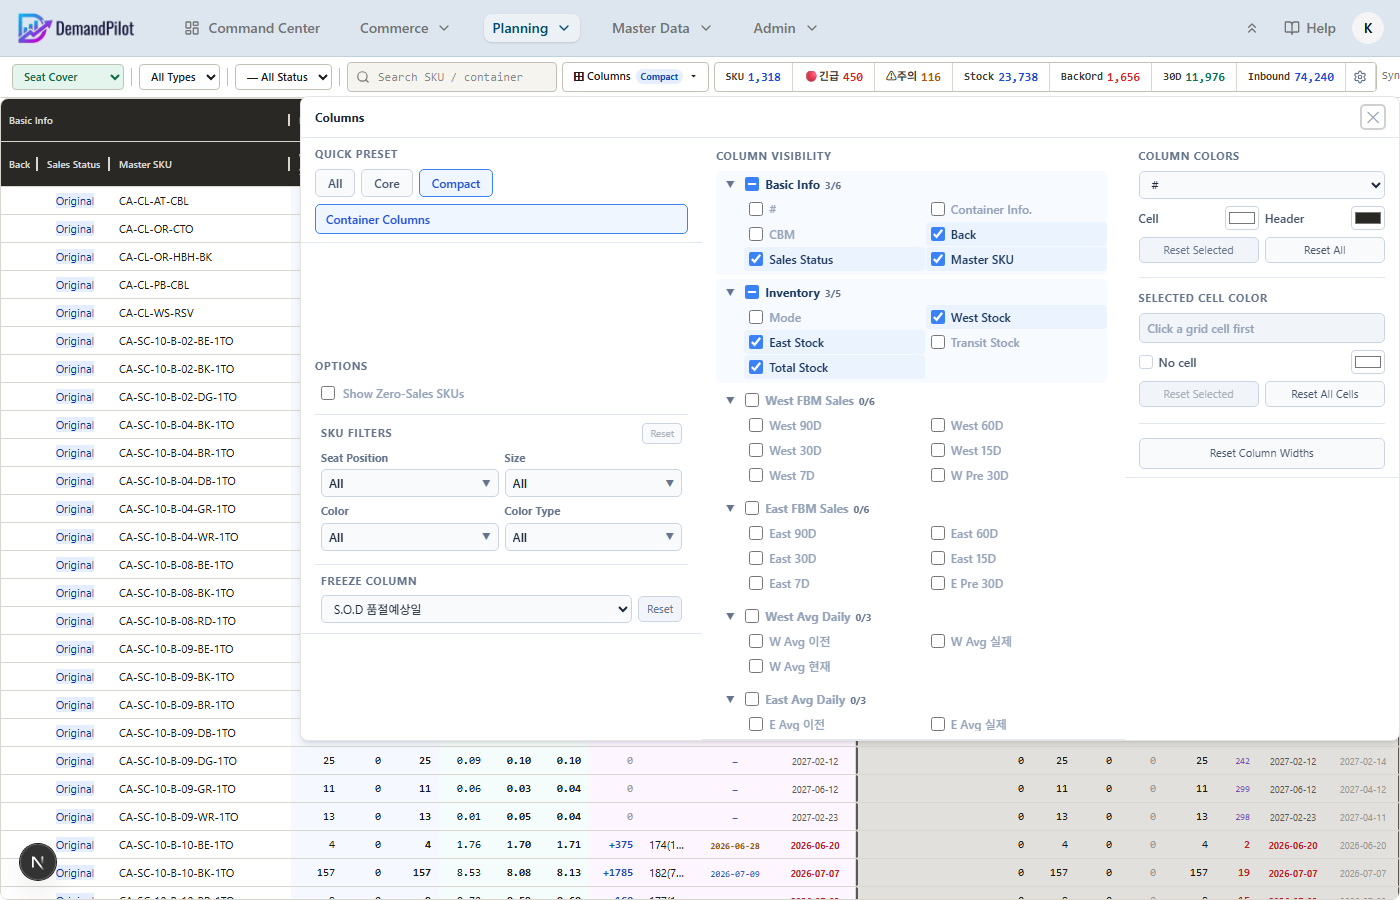
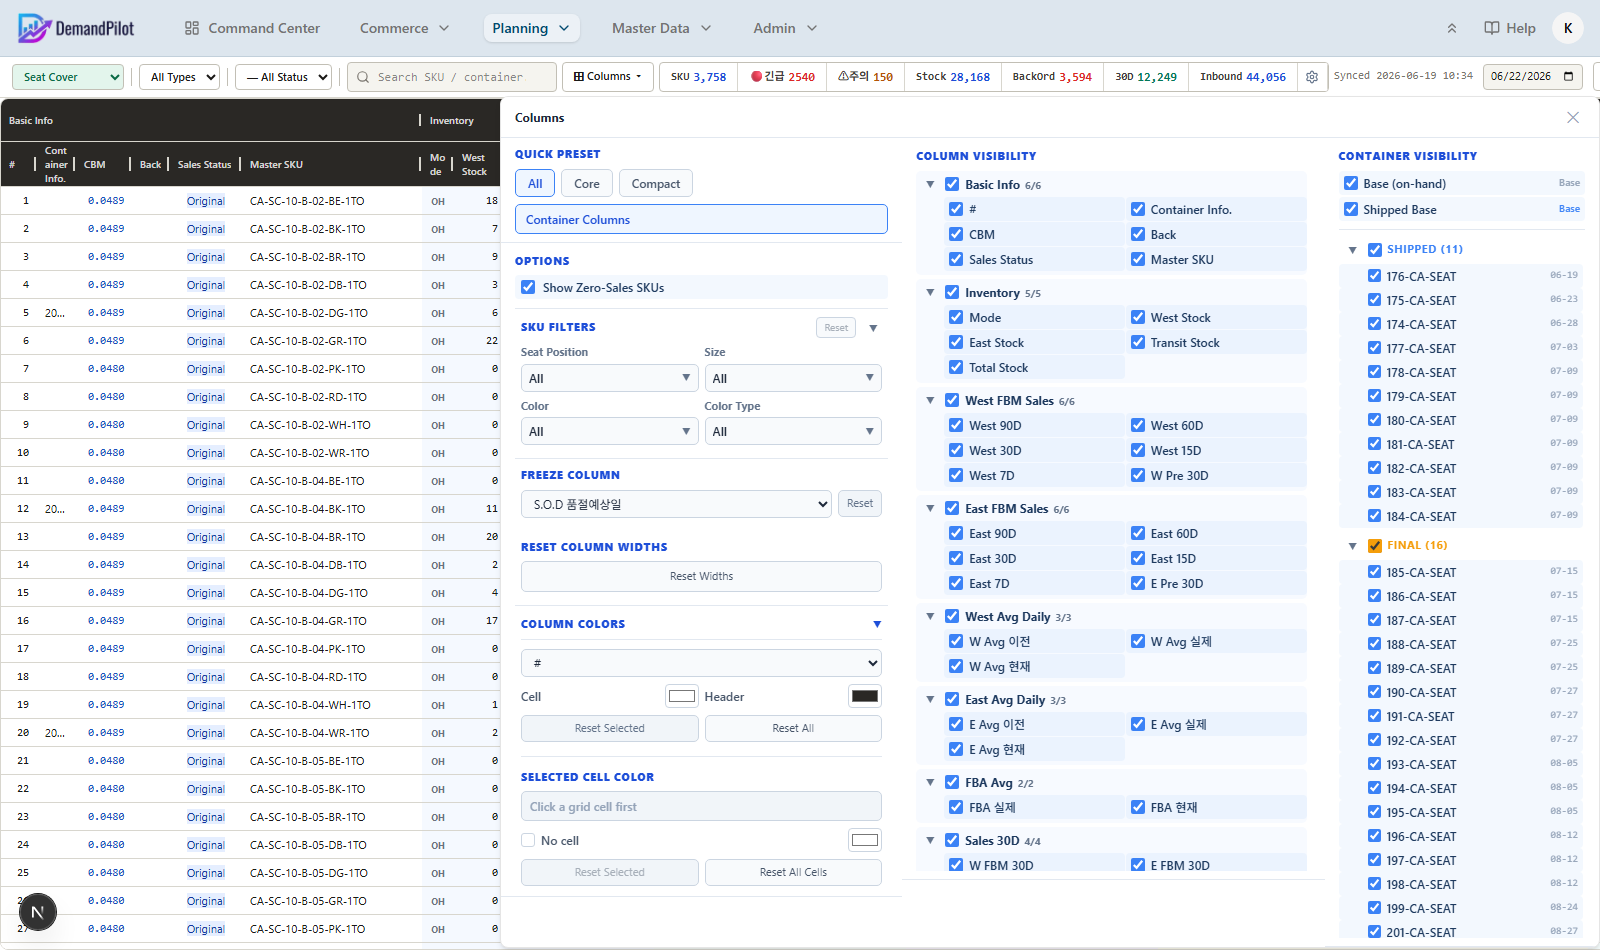
docs(manual): add Container Visibility section (KO/EN) with screenshots
- Update Columns panel description: right area is Container Visibility, not Column Colors
- Add full Container Visibility section in Korean and English covering:
  Base Containers (Base on-hand + Shipped Base), group headers (Shipped/Final/Draft),
  individual container checkboxes with ETA dates, Show All button, status color guide
- Add dp-container-visibility.png / dp-container-visibility-en.png focused screenshots
- Refresh dp-columns-panel.png / dp-columns-panel-en.png to reflect current UI

diff --git a/public/manual/index.html b/public/manual/index.html
@@ -463,11 +463,11 @@
 
   <!-- Columns 패널 전체 -->
   <h3 id="dp-columns">② Columns 패널</h3>
-  <p>상단 툴바의 <span class="btn-label">⊞ Columns ▾</span> 버튼을 클릭하면 패널이 열립니다. 패널은 세 영역(왼쪽: Quick Preset·Options·SKU Filters·Freeze Column, 가운데: Column Visibility, 오른쪽: Column Colors)으로 구성됩니다. 모든 설정은 브라우저 localStorage와 서버에 자동 저장되어 다음 접속 시에도 유지됩니다.</p>
+  <p>상단 툴바의 <span class="btn-label">⊞ Columns ▾</span> 버튼을 클릭하면 패널이 열립니다. 패널은 세 영역(왼쪽: Quick Preset·Options·SKU Filters·Freeze Column·Column Colors, 가운데: Column Visibility, 오른쪽: Container Visibility)으로 구성됩니다. 모든 설정은 서버에 자동 저장되어 다른 기기에서 접속해도 유지됩니다.</p>
 
   <div class="screenshot-box">
     <img src="screenshots/dp-columns-panel.png" onerror="this.parentElement.innerHTML='<div class=\'screenshot-placeholder\'><div class=\'ph-icon\'>⊞</div><p>Columns 패널 전체 화면</p></div>'" alt="Columns 패널">
-    <div class="screenshot-caption">▲ Columns 패널 — 왼쪽(프리셋·SKU 필터·고정), 가운데(컬럼 표시), 오른쪽(색상)</div>
+    <div class="screenshot-caption">▲ Columns 패널 — 왼쪽(프리셋·Options·SKU 필터·Freeze·색상), 가운데(컬럼 표시), 오른쪽(Container Visibility)</div>
   </div>
 
   <h3 class="sub" id="dp-col-preset">Quick Preset — 빠른 컬럼 프리셋</h3>
@@ -583,6 +583,61 @@
         <li><strong>Compact 프리셋</strong>은 키보드 단축 작업 시 유용합니다. 좌우 스크롤이 거의 없어집니다.</li>
         <li>컬럼 너비는 헤더 경계를 드래그해 조정하며, <span class="btn-label">Reset Column Widths</span>로 기본값으로 복원합니다.</li>
         <li>설정은 서버에 저장되어 다른 컴퓨터에서 접속해도 유지됩니다.</li>
+      </ul>
+    </div>
+  </div>
+
+  <h3 class="sub" id="dp-container-vis" style="margin-top:28px">Container Visibility — 컨테이너 표시 제어</h3>
+  <p>Columns 패널 오른쪽 영역에서 그리드에 표시할 컨테이너를 개별·그룹 단위로 켜고 끌 수 있습니다. 숨긴 컨테이너는 열 자체가 사라져 수요 계획 뷰가 간결해집니다. 설정은 서버에 자동 저장됩니다.</p>
+
+  <div class="screenshot-box">
+    <img src="screenshots/dp-container-visibility.png" onerror="this.parentElement.innerHTML='<div class=\'screenshot-placeholder\'><div class=\'ph-icon\'>📦</div><p>Container Visibility 패널</p></div>'" alt="Container Visibility">
+    <div class="screenshot-caption">▲ Container Visibility — Base 컨테이너 토글, 상태 그룹 헤더, 개별 컨테이너 체크박스, ETA(MM-DD)</div>
+  </div>
+
+  <table class="feat-table">
+    <tr><th style="width:200px">항목</th><th>설명</th></tr>
+    <tr style="background:#f0f4ff">
+      <td><strong>Base Containers</strong><br><span style="font-size:11px;color:#6b7280">섹션 상단</span></td>
+      <td>
+        <strong>Base (on-hand)</strong> — 현재 보유 재고 기준 컬럼. 체크 해제 시 Base 열이 숨겨집니다.<br>
+        <strong>Shipped Base</strong> — 마지막 Shipped/Packing 컨테이너의 잠금된 carryover·Inv.Life·SOD를 보여주는 가상 컬럼(amber 배경). 체크 해제 시 해당 컬럼이 완전히 사라집니다.
+      </td>
+    </tr>
+    <tr>
+      <td><strong>그룹 헤더 체크박스</strong></td>
+      <td>상태(Shipped · Final · Draft)별로 묶인 그룹의 모든 컨테이너를 한 번에 ON/OFF합니다. 일부만 체크된 경우 indeterminate(중간) 상태로 표시됩니다.</td>
+    </tr>
+    <tr>
+      <td><strong>▼ / ▶ 화살표</strong></td>
+      <td>그룹을 접거나 펼쳐서 목록을 정리합니다. 컨테이너 수가 많을 때 유용합니다.</td>
+    </tr>
+    <tr>
+      <td><strong>개별 컨테이너 체크박스</strong></td>
+      <td>컨테이너마다 독립적으로 표시·숨김 처리합니다. 체크박스 오른쪽에 ETA 날짜(MM-DD 형식)가 회색으로 표시됩니다.</td>
+    </tr>
+    <tr>
+      <td><strong>Show All 버튼</strong></td>
+      <td>하나 이상의 컨테이너를 숨기면 섹션 상단에 나타납니다. 클릭하면 모든 컨테이너를 즉시 다시 표시합니다.</td>
+    </tr>
+  </table>
+
+  <div class="card-grid col2" style="margin-top:16px">
+    <div class="card">
+      <h4>🎨 컨테이너 상태 색상</h4>
+      <table style="width:100%;font-size:12px;border-collapse:collapse;margin-top:6px">
+        <tr style="border-bottom:1px solid #e5e7eb"><td style="padding:4px 8px;font-weight:700;color:#3B82F6;width:80px">SHIPPED</td><td style="padding:4px 8px">항만 수령 완료 컨테이너 (파란색)</td></tr>
+        <tr style="border-bottom:1px solid #e5e7eb"><td style="padding:4px 8px;font-weight:700;color:#F59E0B">FINAL</td><td style="padding:4px 8px">선적 완료·운송 중 컨테이너 (amber)</td></tr>
+        <tr><td style="padding:4px 8px;font-weight:700;color:#EF4444">DRAFT</td><td style="padding:4px 8px">초안(예정) 컨테이너 (빨간색)</td></tr>
+      </table>
+    </div>
+    <div class="card">
+      <h4>💡 활용 팁</h4>
+      <ul style="font-size:13px;line-height:1.9">
+        <li>Draft 컨테이너를 숨기면 확정된 입고 계획만 집중해서 볼 수 있습니다.</li>
+        <li>특정 컨테이너만 숨겨서 해당 컨테이너 제외 시나리오를 빠르게 확인할 수 있습니다.</li>
+        <li>Shipped Base를 숨기면 출하 기준 가상 컬럼이 사라져 그리드가 단순해집니다.</li>
+        <li>숨긴 컨테이너가 있으면 상단에 <span class="btn-label">Show All</span> 버튼이 나타나 한 번에 복원할 수 있습니다.</li>
       </ul>
     </div>
   </div>
@@ -1986,11 +2041,11 @@
   <p>Depending on the selected product category, a different set of SKU part filters appears in the <strong>SKU Filters</strong> area of the Columns panel. Each dropdown supports multiple selections combined as <strong>AND</strong> conditions.</p>
 
   <h3 id="en-dp-columns">② Columns Panel</h3>
-  <p>Click the <span class="btn-label">⊞ Columns ▾</span> button in the toolbar to open the panel. The panel has three areas (left: Quick Preset · Options · SKU Filters · Freeze Column; center: Column Visibility; right: Column Colors). All settings are auto-saved to the server and persist across sessions and devices.</p>
+  <p>Click the <span class="btn-label">⊞ Columns ▾</span> button in the toolbar to open the panel. The panel has three areas (left: Quick Preset · Options · SKU Filters · Freeze Column · Column Colors; center: Column Visibility; right: Container Visibility). All settings are auto-saved to the server and persist across sessions and devices.</p>
 
   <div class="screenshot-box">
     <img src="screenshots/dp-columns-panel-en.png" onerror="this.parentElement.innerHTML='<div class=\'screenshot-placeholder\'><div class=\'ph-icon\'>⊞</div><p>Columns Panel</p></div>'" alt="Columns Panel">
-    <div class="screenshot-caption">▲ Columns Panel — Left (Presets · SKU Filters · Freeze), Center (Visibility), Right (Colors)</div>
+    <div class="screenshot-caption">▲ Columns Panel — Left (Presets · Options · SKU Filters · Freeze · Colors), Center (Column Visibility), Right (Container Visibility)</div>
   </div>
 
   <h3 class="sub" id="en-dp-col-preset">Quick Preset — Fast Column Presets</h3>
@@ -2146,6 +2201,61 @@
   <div class="callout tip" style="margin-top:12px">
     <span class="callout-icon">💡</span>
     <div>Column colors and cell colors are independent. Individual cell colors override column colors for that cell only.</div>
+  </div>
+
+  <h3 class="sub" id="en-dp-container-vis" style="margin-top:28px">Container Visibility — Show/Hide Containers</h3>
+  <p>The right area of the Columns panel lets you show or hide individual containers in the grid. Hidden containers are removed from the view entirely, making the demand planning grid easier to read. All settings are auto-saved to the server.</p>
+
+  <div class="screenshot-box">
+    <img src="screenshots/dp-container-visibility-en.png" onerror="this.parentElement.innerHTML='<div class=\'screenshot-placeholder\'><div class=\'ph-icon\'>📦</div><p>Container Visibility Panel</p></div>'" alt="Container Visibility">
+    <div class="screenshot-caption">▲ Container Visibility — Base container toggles, status group headers, per-container checkboxes, ETA (MM-DD)</div>
+  </div>
+
+  <table class="feat-table">
+    <tr><th style="width:220px">Item</th><th>Description</th></tr>
+    <tr style="background:#f0f4ff">
+      <td><strong>Base Containers</strong><br><span style="font-size:11px;color:#6b7280">Top of section</span></td>
+      <td>
+        <strong>Base (on-hand)</strong> — The on-hand inventory baseline column. Uncheck to hide the Base column.<br>
+        <strong>Shipped Base</strong> — A virtual column (amber background) showing the locked-in carryover · Inv.Life · SOD from the last Shipped/Packing container. Uncheck to remove it entirely.
+      </td>
+    </tr>
+    <tr>
+      <td><strong>Group header checkbox</strong></td>
+      <td>Toggles all containers within a status group (Shipped · Final · Draft) on or off at once. Shows an indeterminate state when only some containers in the group are visible.</td>
+    </tr>
+    <tr>
+      <td><strong>▼ / ▶ arrow</strong></td>
+      <td>Collapses or expands a group's container list to keep the panel tidy when there are many containers.</td>
+    </tr>
+    <tr>
+      <td><strong>Individual container checkbox</strong></td>
+      <td>Shows or hides each container independently. The ETA date (MM-DD format) is shown in grey on the right of each row.</td>
+    </tr>
+    <tr>
+      <td><strong>Show All button</strong></td>
+      <td>Appears at the top of the section whenever any container is hidden. Click it to instantly restore all containers.</td>
+    </tr>
+  </table>
+
+  <div class="card-grid col2" style="margin-top:16px">
+    <div class="card">
+      <h4>🎨 Container Status Colors</h4>
+      <table style="width:100%;font-size:12px;border-collapse:collapse;margin-top:6px">
+        <tr style="border-bottom:1px solid #e5e7eb"><td style="padding:4px 8px;font-weight:700;color:#3B82F6;width:80px">SHIPPED</td><td style="padding:4px 8px">Received at port (blue)</td></tr>
+        <tr style="border-bottom:1px solid #e5e7eb"><td style="padding:4px 8px;font-weight:700;color:#F59E0B">FINAL</td><td style="padding:4px 8px">Shipped &amp; in transit (amber)</td></tr>
+        <tr><td style="padding:4px 8px;font-weight:700;color:#EF4444">DRAFT</td><td style="padding:4px 8px">Planned / not yet shipped (red)</td></tr>
+      </table>
+    </div>
+    <div class="card">
+      <h4>💡 Tips</h4>
+      <ul style="font-size:13px;line-height:1.9">
+        <li>Hide Draft containers to focus only on confirmed inbound shipments.</li>
+        <li>Hide a specific container to quickly see the plan without it.</li>
+        <li>Hiding Shipped Base removes the virtual locked-baseline column and simplifies the grid.</li>
+        <li>The <span class="btn-label">Show All</span> button appears whenever any container is hidden — click it to restore all at once.</li>
+      </ul>
+    </div>
   </div>
 
   <h3 id="en-dp-autofill">③ Con. Qty Auto-Fill Buttons</h3>